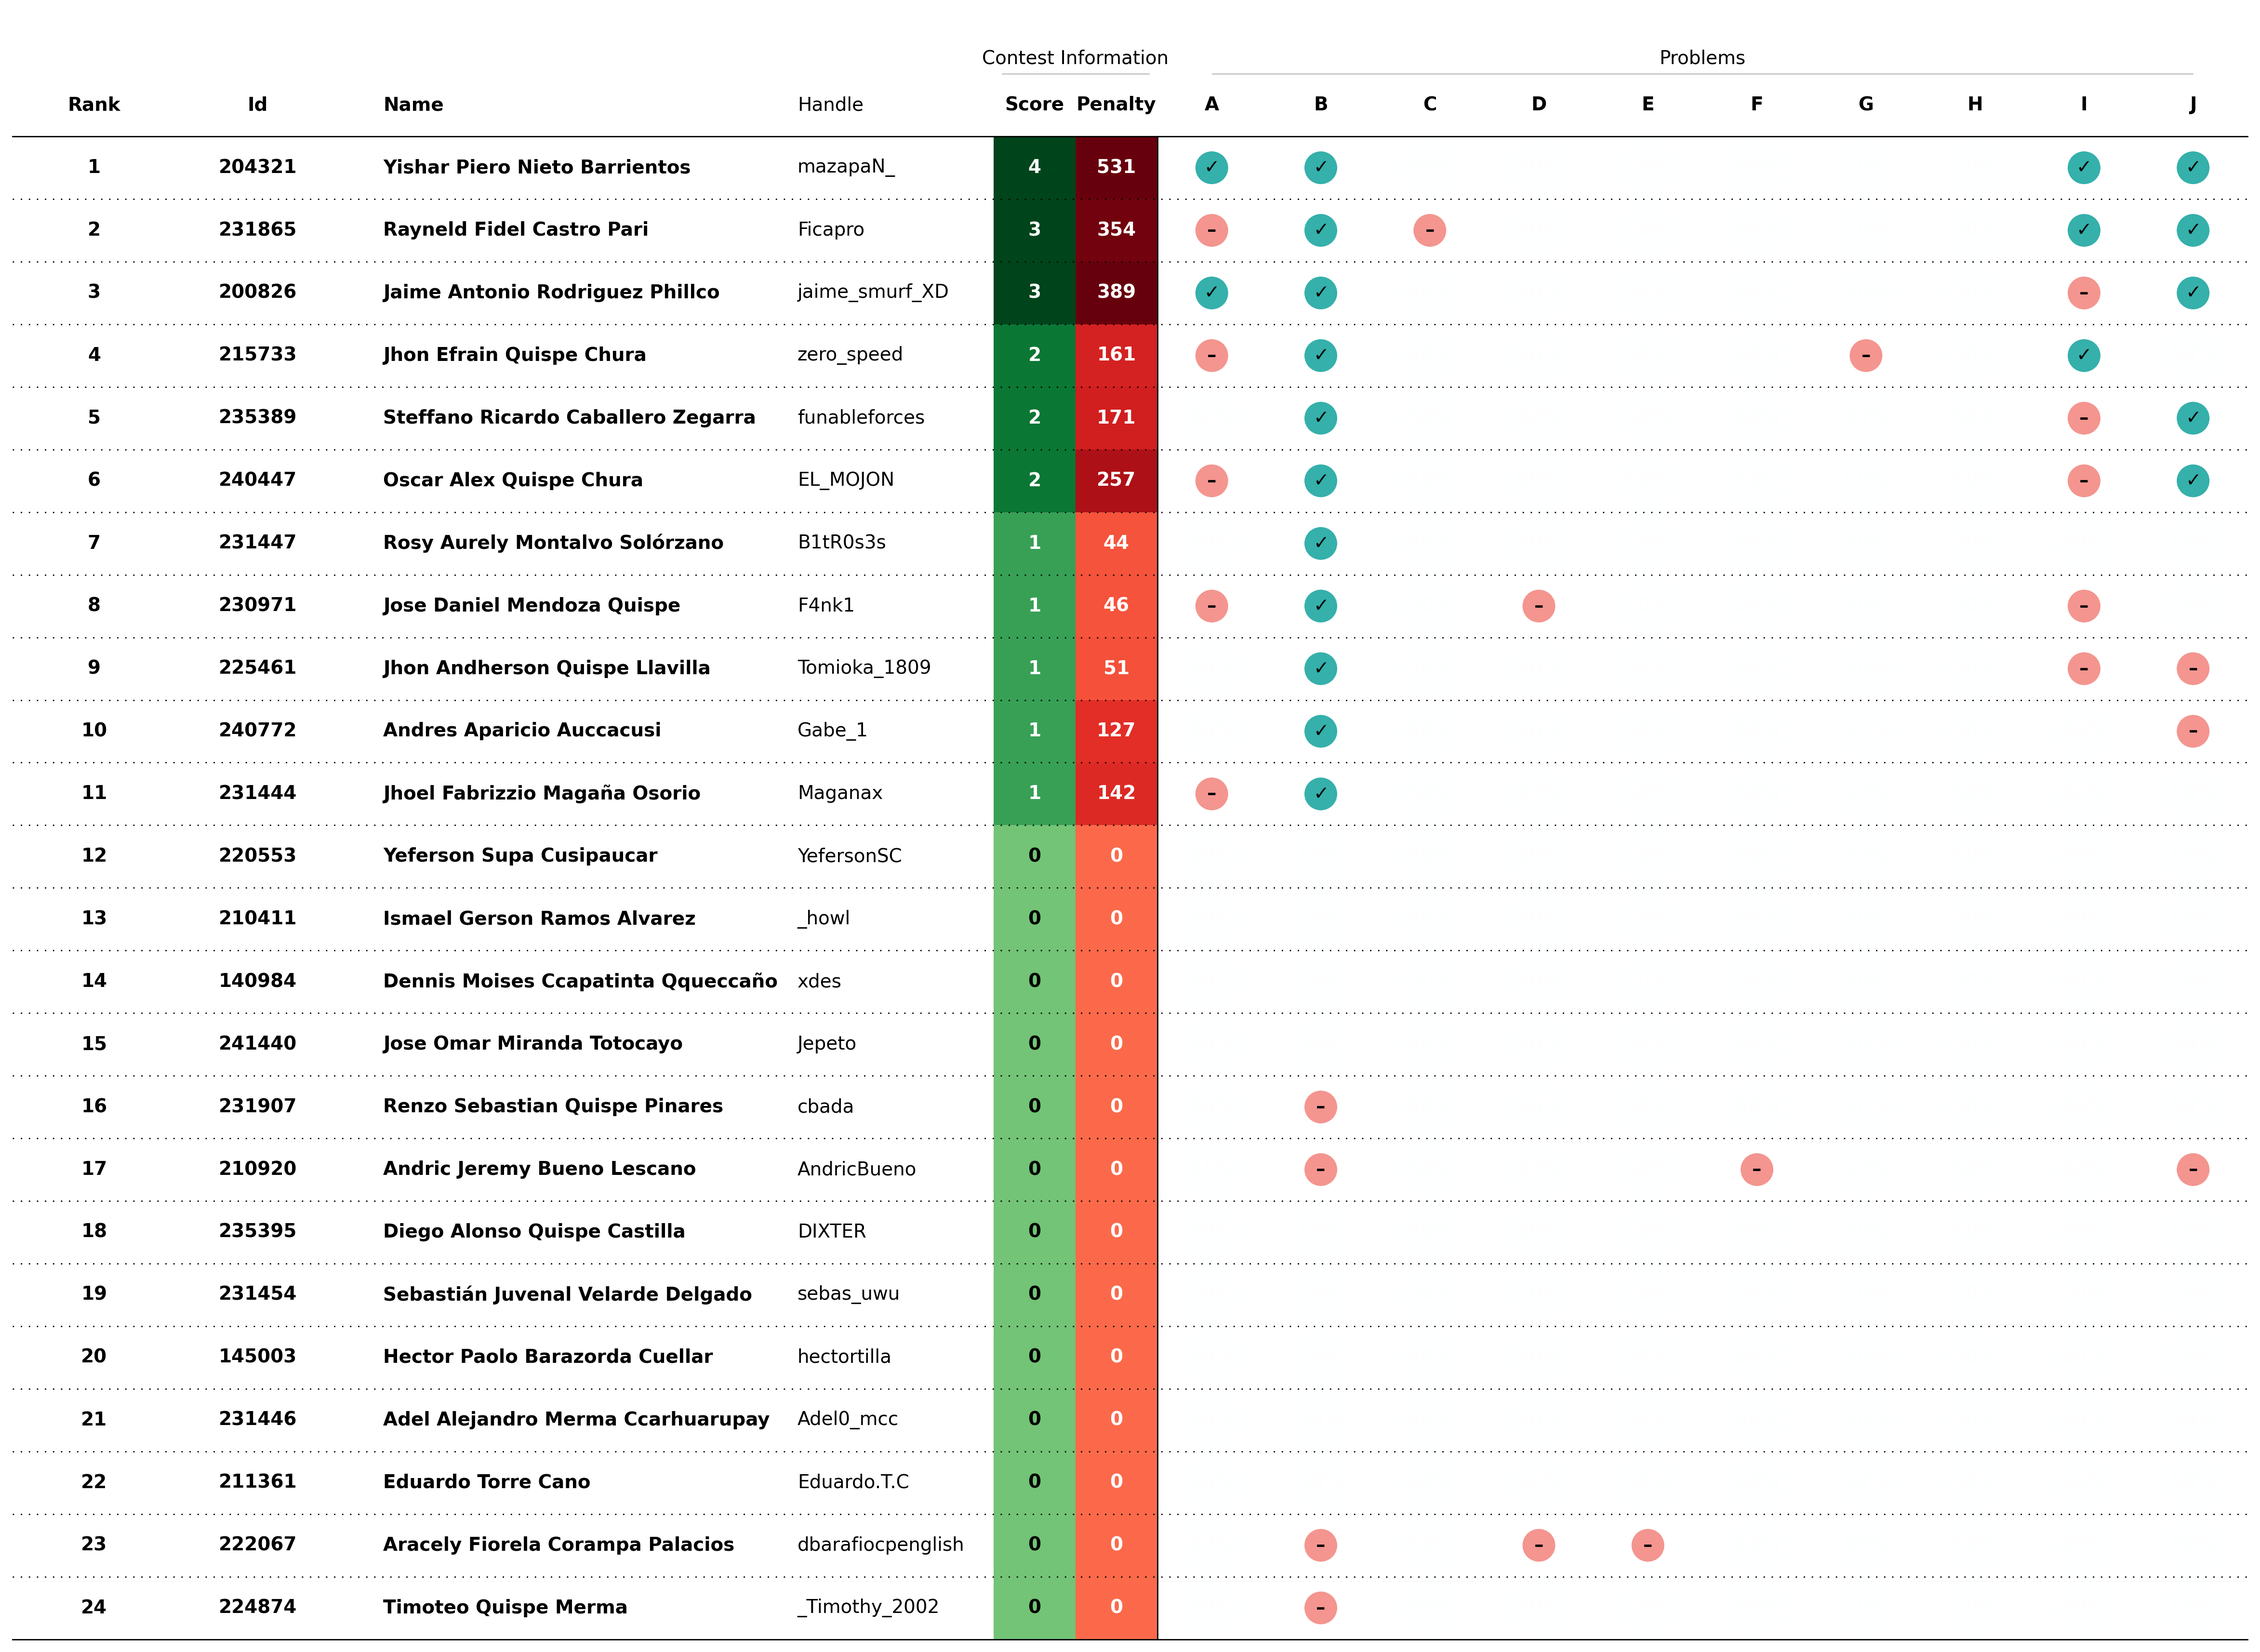
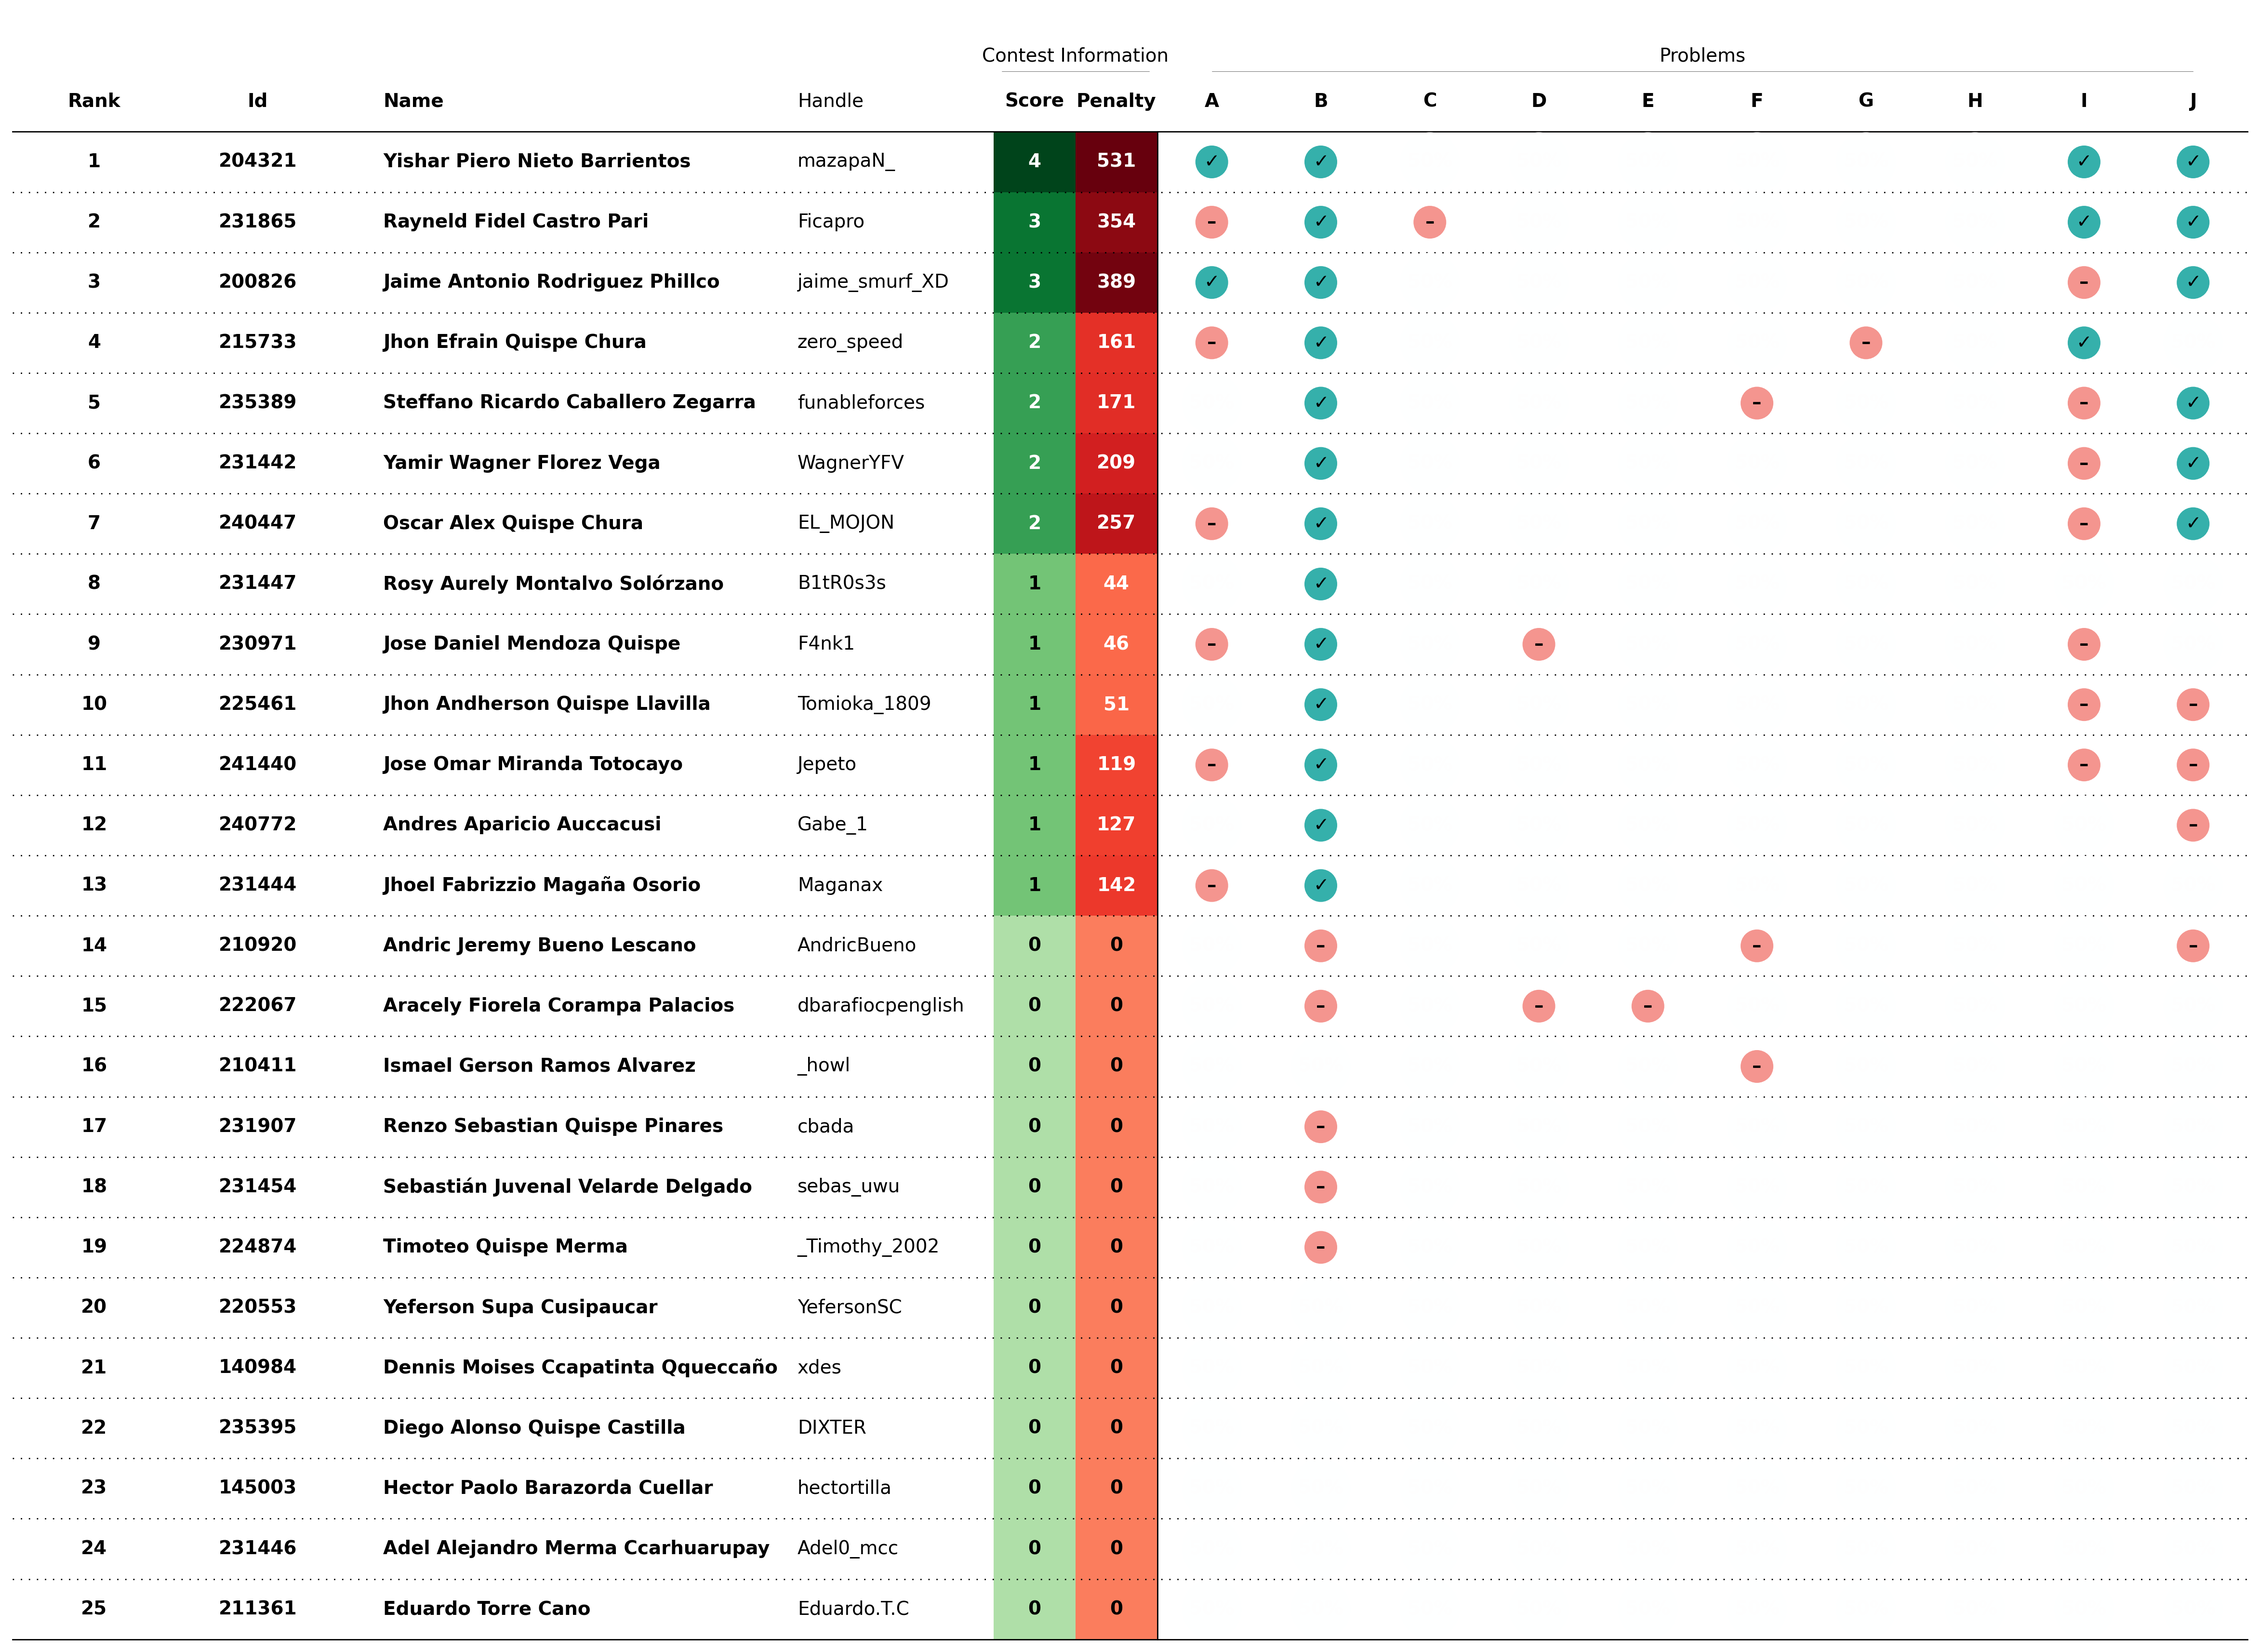
generate ranking and scoreboard to training camp argentina 2025

diff --git a/ranking/ranking.py b/ranking/ranking.py
@@ -66,6 +66,11 @@ class User:
         if self.contestRegistered == "Yes":
             self.isRegisteredOnContest = True
 
+    def isQualify(self, creditsQualifyThreshold):
+        if self.credits == 0 or self.credits >= creditsQualifyThreshold:
+            return False
+        return True
+
     def getCodeforcesRating(self):
         link = f"https://codeforces.com/api/user.info?handles={self.codeforcesHandle}"
         url = requests.get(link)
@@ -113,7 +118,8 @@ class Ranking:
     totalRegisteredTeams = 0
     totalContestTeams = 0
 
-    creditsThreshold = 0
+    creditsCategoryThreshold = 0
+    creditsQualifyThreshold = 0
 
     codeforcesRatingAverage = 0.0
     totalRatingSolvedProblemsAverage = 0.0
@@ -134,6 +140,8 @@ class Ranking:
         print("Completed computing the ranking!")
 
     def getUserCategory(self, user):
+        if not user.isQualify(self.creditsQualifyThreshold):
+            return "-"
         if self.rankingType == "Unique":
             return "U"
         else:
@@ -144,7 +152,7 @@ class Ranking:
                     return "A"
                 else:
                     return "B"
-            if user.credits > self.creditsThreshold:
+            if user.credits >= self.creditsCategoryThreshold:
                 return "A"
             else:
                 return "B"
@@ -163,7 +171,8 @@ class Ranking:
         self.contestPositionWeight = int(self.config["Weight"]["ContestPosition"])
         self.codeforcesRatingWeight = int(self.config["Weight"]["CodeforcesRating"])
         self.totalRatingSolvedProblemsWeight = int(self.config["Weight"]["TotalRatingSolvedProblems"])
-        self.creditsThreshold = int(self.config["Credits"]["Threshold"])
+        self.creditsCategoryThreshold = int(self.config["Credits"]["CategoryThreshold"])
+        self.creditsQualifyThreshold = int(self.config["Credits"]["QualifyThreshold"])
         self.rankingType = self.config["Ranking"]["Type"]
 
         totalCodeforcesRatingAccumulate = 0
@@ -383,12 +392,12 @@ class Ranking:
         numberSelectByCategory = {}
         if self.rankingType == "Unique":
             selectByCategoryU = int(self.config["Unique"]["U"])
-            numberSelectByCategory = {"U": selectByCategoryU}
+            numberSelectByCategory = {"U": selectByCategoryU, "-": 0}
         else:
             selectByCategoryA = int(self.config["Category"]["A"])
             selectByCategoryB = int(self.config["Category"]["B"])
             selectByCategoryC = int(self.config["Category"]["W"])
-            numberSelectByCategory = {"A": selectByCategoryA, "B": selectByCategoryB, "W": selectByCategoryC}
+            numberSelectByCategory = {"A": selectByCategoryA, "B": selectByCategoryB, "W": selectByCategoryC, "-": 0}
 
         index = 0
         for user in self.users:

diff --git a/scoreboard/scoreboard.py b/scoreboard/scoreboard.py
@@ -25,16 +25,18 @@ class User:
     codeforcesHandle = ""
     penalty = 0
     problems = []
+    attemps = 0
 
     # Compute
     totalSolvedProblems = 0
 
-    def __init__(self, id, name, codeforcesHandle, penalty , problems):
+    def __init__(self, id, name, codeforcesHandle, penalty , problems, attemps):
         self.id = id
         self.name = name
         self.codeforcesHandle = codeforcesHandle
         self.penalty = int(penalty)
         self.problems = problems
+        self.attemps = attemps
         # Compute total solved problems
         self.getTotalSolvedproblems()
 
@@ -55,7 +57,7 @@ class Scoreboard:
         self.totalUsers = len(users)
         self.totalProblems = int(config["Problem"]["Number"])
         # Sort ranking by total solved problems and penalty
-        self.users.sort(key=lambda user:(user.totalSolvedProblems, -user.penalty), reverse = True)
+        self.users.sort(key=lambda user:(user.totalSolvedProblems, -user.penalty, user.attemps), reverse = True)
 
     def plotGraphic(self, filepath):
         data = []
@@ -230,11 +232,13 @@ def getUsers(config, data):
             continue
 
         problems = []
+        attemps = 0
         for problemCol in range(startColumnProblemCol, startColumnProblemCol + numberProblemCol):
             problemResult = data.cell(row, problemCol).value
             problems.append(int(problemResult))
+            attemps += abs(int(problemResult))
 
-        user = User(id, name, codeforcesHandle, penalty, problems)
+        user = User(id, name, codeforcesHandle, penalty, problems, attemps)
         users.append(user)
 
     print("Loading users information is completed!")

diff --git a/ranking/Ranking.md b/ranking/Ranking.md
@@ -113,7 +113,7 @@ Para la selección, los estudiantes deben tener en cuenta los siguientes `requis
 
 3. En caso de que el estudiante tenga apoyo financiero de la universidad, **al regresar, el estudiante debe reportar a la universidad los gastos incurridos**.
 
-4. En caso de que el estudiante tenga apoyo financiero de la universidad, **al regresar, el estudiante debe participar de los eventos de programación competitiva y contribuir con su conocimiento obtenido para los otros estudiantes i.e (clases, contests, eventos)**.
+4. En caso de que el estudiante tenga apoyo financiero de la universidad, **al regresar, el estudiante debe participar de los eventos de programación competitiva y contribuir con su conocimiento obtenido para los otros estudiantes i.e (clases, contests, eventos). Estudiantes egresados con 200 creditos o más no son elegibles ya que poseen poco tiempo libre.**.
 
 ## Formato del documento
 
